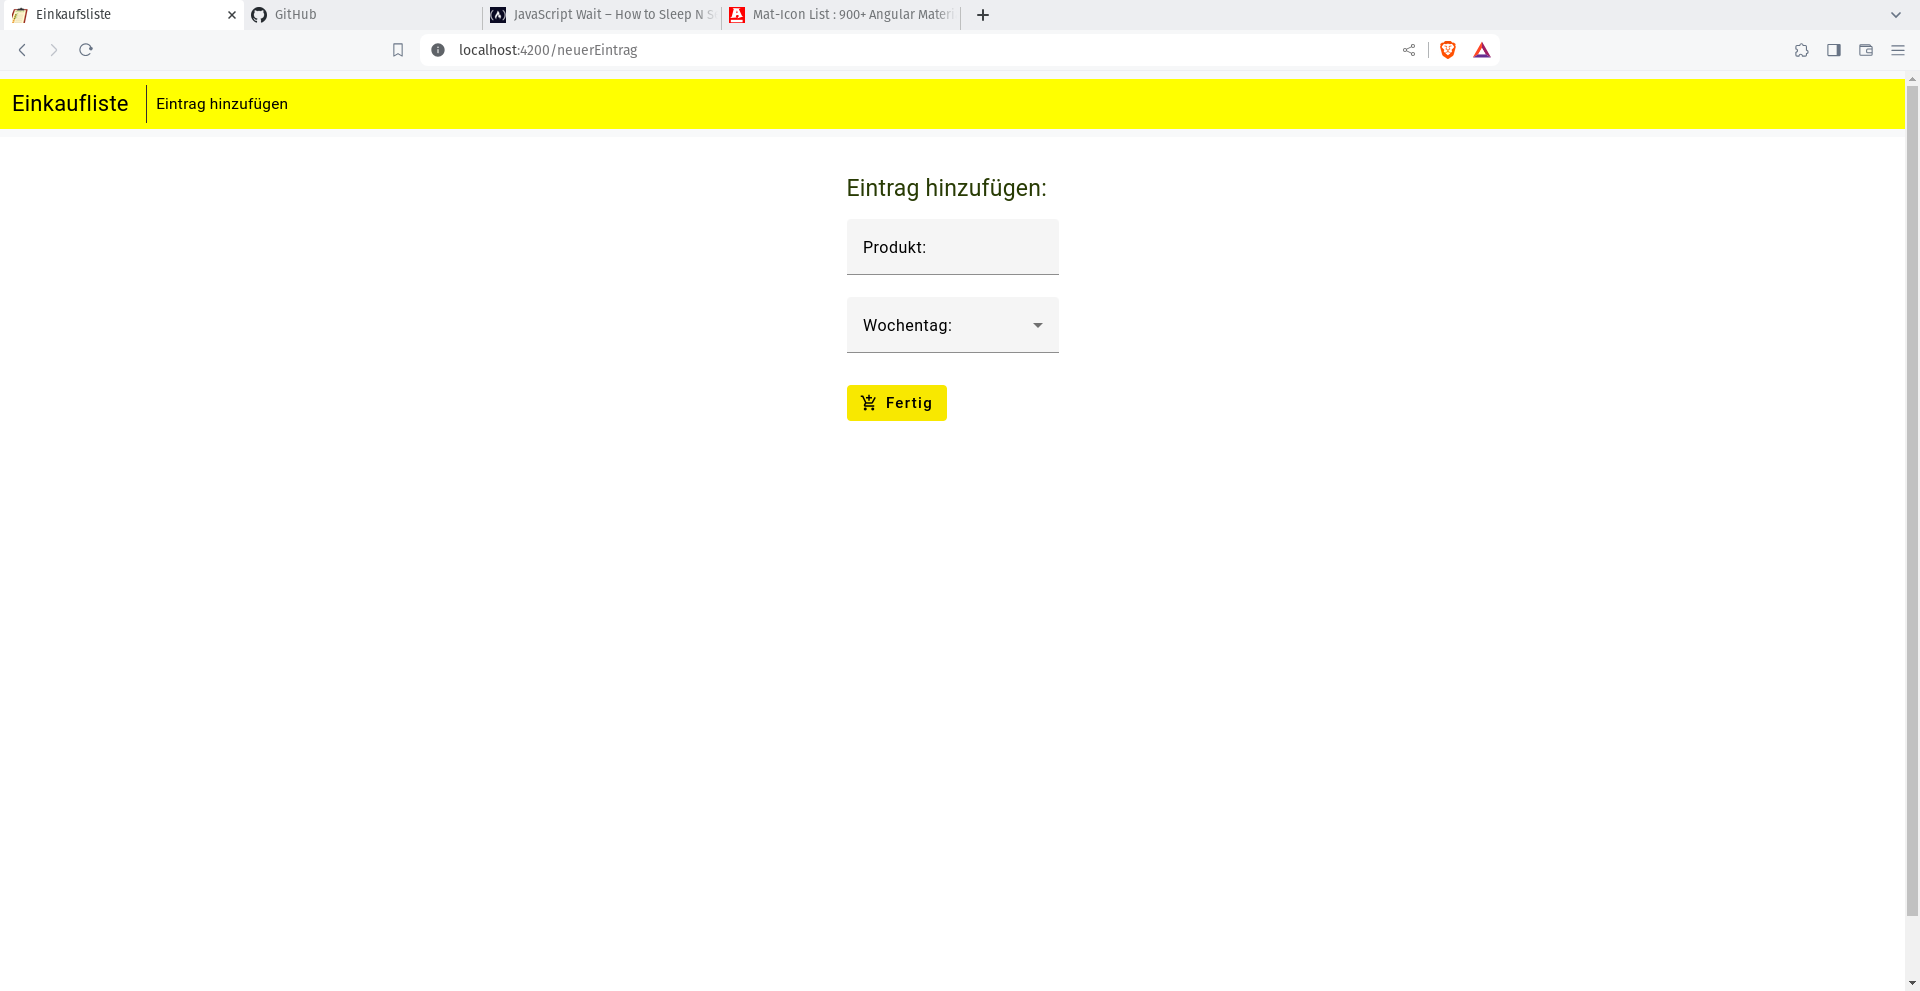
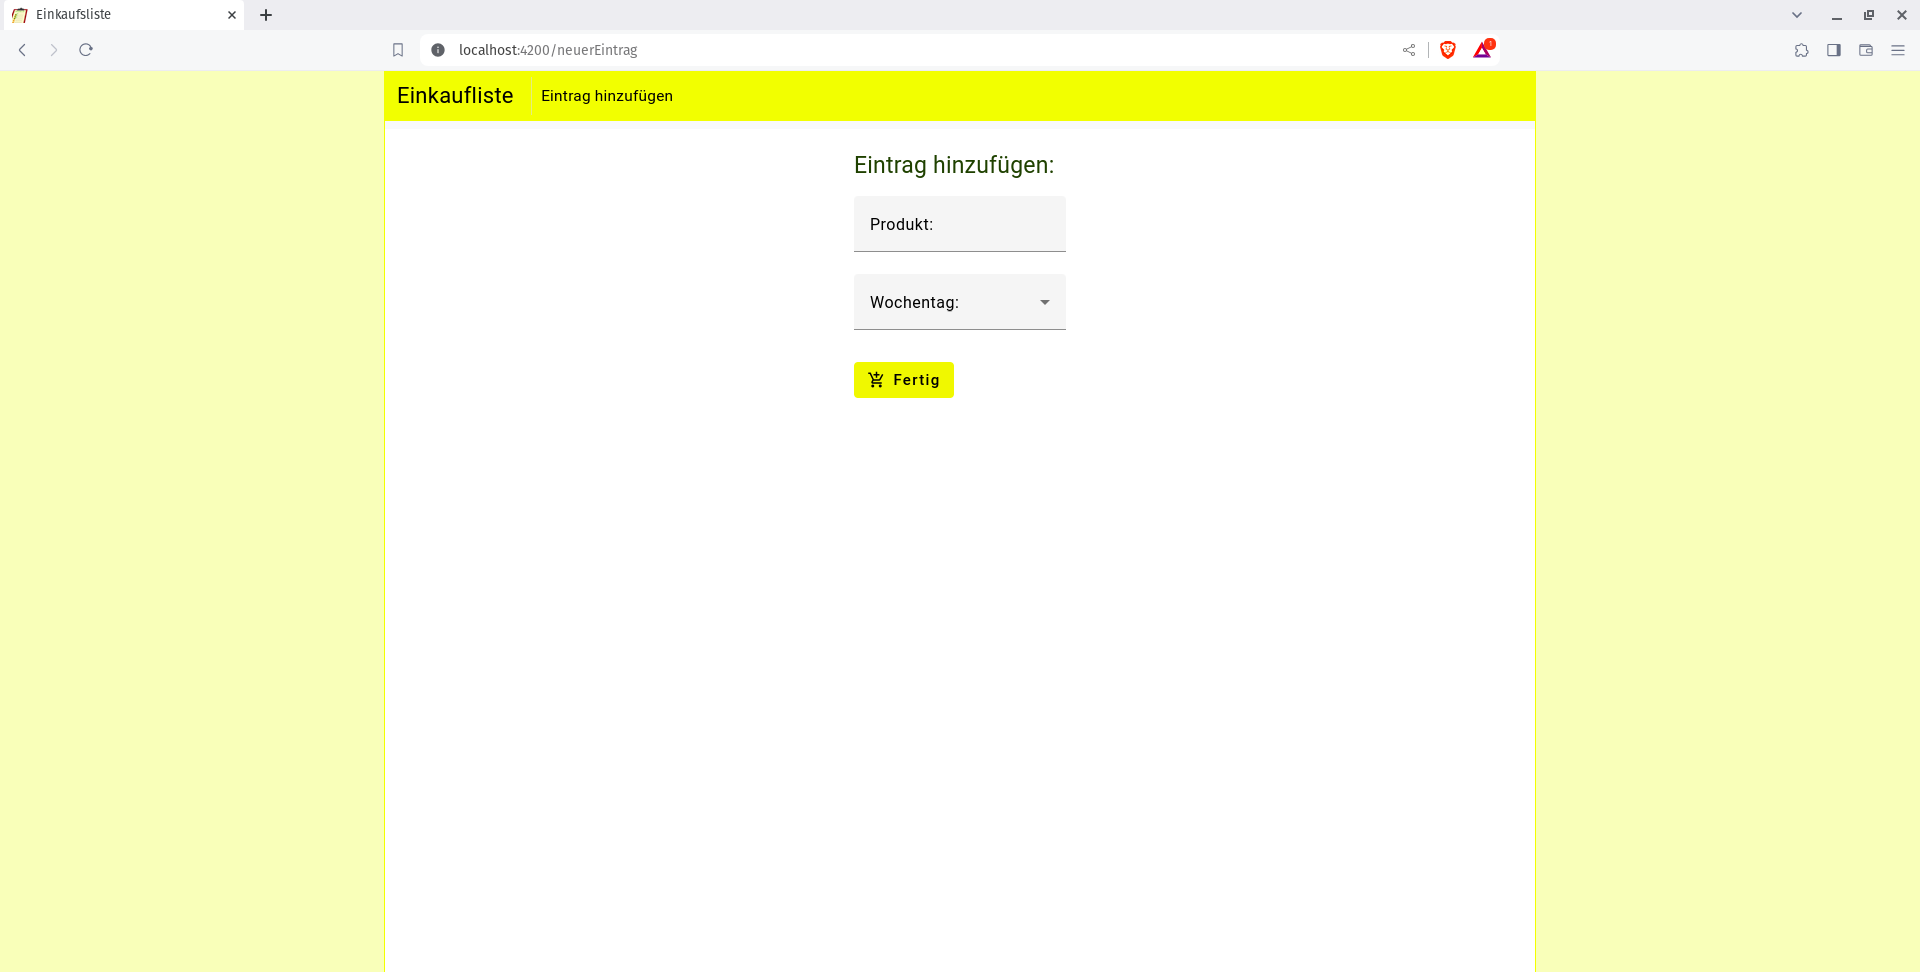
update

diff --git a/src/app/components/add-product/add-product.component.html b/src/app/components/add-product/add-product.component.html
@@ -1,19 +1,18 @@
+<div class="body">
+    <div class="mat-form-field">
 
-    <body>
-        <div class="mat-form-field">
+        <h3>Eintrag hinzufügen:</h3>
+        <mat-form-field>
+            <mat-label for="text">Produkt:</mat-label>
+            <input matInput type="text" name="text" id="text" [(ngModel)]="shoppinglist.product">
+        </mat-form-field><br>
+        <mat-form-field>
+            <mat-label>Wochentag:</mat-label>
+            <mat-select [(ngModel)]="shoppinglist.weekday" name="weekday">
+                <mat-option *ngFor="let day of weekdays" [value]="day">{{day}}</mat-option>
 
-                <h3>Eintrag hinzufügen:</h3>
-                <mat-form-field>
-                    <mat-label for="text">Produkt:</mat-label>
-                    <input matInput type="text" name="text" id="text" [(ngModel)]="shoppinglist.product">
-                </mat-form-field><br>
-                <mat-form-field>
-                    <mat-label>Wochentag:</mat-label>
-                    <mat-select [(ngModel)]="shoppinglist.weekday" name="weekday">
-                        <mat-option *ngFor="let day of weekdays"  [value]="day">{{day}}</mat-option>
-                   
-                    </mat-select>
-                </mat-form-field><br>
-                <button mat-button (click)="addNewProduct();">Fertig<mat-icon>add_shopping_cart</mat-icon> </button>
-        </div>
-    </body>
+            </mat-select>
+        </mat-form-field><br>
+        <button mat-button (click)="addNewProduct();">Fertig<mat-icon>add_shopping_cart</mat-icon> </button>
+    </div>
+</div>

diff --git a/src/app/components/Shopping-list/shopping-list.component.ts b/src/app/components/Shopping-list/shopping-list.component.ts
@@ -34,10 +34,10 @@ export class ShoppingListComponent implements OnInit {
   }
   ShowIfEntryIsDone(a:any, id: any) {
     if (a === false) {
-      document.getElementById("entryIsDone" + id)!.innerHTML = '<img style="width: 26px; margin-left: 30%" class="img" src="/assets/red.png" alt="">'
+      document.getElementById("entryIsDone" + id)!.innerHTML = '<img style="width: 26px; float: right" class="img" src="/assets/red.png" alt="">'
     }
     else {
-      document.getElementById("entryIsDone" + id)!.innerHTML = '<img style="width: 24px; margin-left 40%" class="img" src="/assets/green.png" alt="">'
+      document.getElementById("entryIsDone" + id)!.innerHTML = '<img style="width: 24px; float: right" class="img" src="/assets/green.png" alt="">'
     }
 
   }

diff --git a/src/app/components/Shopping-list/shopping-list.component.html b/src/app/components/Shopping-list/shopping-list.component.html
@@ -1,5 +1,4 @@
-<body>
-    <mat-card>
+   <div class="body"><mat-card>
         <mat-card-header>
             <h2>Einkaufsliste</h2>
             <mat-label>Wochentag: </mat-label>
@@ -17,7 +16,7 @@
             <mat-card-content *ngIf="item.weekday==SelectedWeekday"> <input type="checkbox" value="{{item.id}}"
                     (change)="RadioEvent($event)">
 
-                {{item.product}} <div style="margin-left: 3%;" id="entryIsDone{{item.id}}">
+                {{item.product}} <div style="width: 100%;" id="entryIsDone{{item.id}}">
                     {{ShowIfEntryIsDone(item.isDone, item.id)}}</div>
             </mat-card-content>
         </div>
@@ -31,4 +30,4 @@
             </button></mat-card-footer>
     </mat-card>
 
-</body>
+</div> 

diff --git a/src/app/components/Shopping-list/shopping-list.component.scss b/src/app/components/Shopping-list/shopping-list.component.scss
@@ -9,8 +9,12 @@ select {
 
 mat-card {
     width: 600px;
-    margin-left: 650px;
     margin-top: 2%;
+}
+
+.body{
+    display: flex;
+    justify-content: center;
 }
 
 mat-label {
@@ -25,6 +29,7 @@ mat-card-header {
 mat-card-content {
     display: flex;
     border: 1px solid;
+    width: 100%;
 }
 
 mat-card-footer {

diff --git a/src/styles.scss b/src/styles.scss
@@ -5,3 +5,12 @@
 
 html, body { height: 100%; }
 body { margin: 0; font-family: Roboto, "Helvetica Neue", sans-serif; }
+html{
+    margin-left: 20%;
+    margin-right: 20%;
+    border-left: 1px solid yellow;
+    border-right: 1px solid yellow;
+    background-color: rgba(255, 255, 0, 0.26);
+
+
+}

diff --git a/src/app/components/header/header.component.scss b/src/app/components/header/header.component.scss
@@ -13,6 +13,9 @@ img {
 }
 
 .nav-link {
-    border-left: 1px solid rgb(54, 46, 46);
+    border-left: 1px solid rgb(233, 226, 137);
     border-collapse: collapse;
+}
+nav{
+    padding-top: 0;
 }

diff --git a/src/app/components/add-product/add-product.component.scss b/src/app/components/add-product/add-product.component.scss
@@ -26,7 +26,7 @@ h3 {
     font-size: 23px;
 }
 
-body {
+.body {
     display: flex;
     justify-content: center;
 
